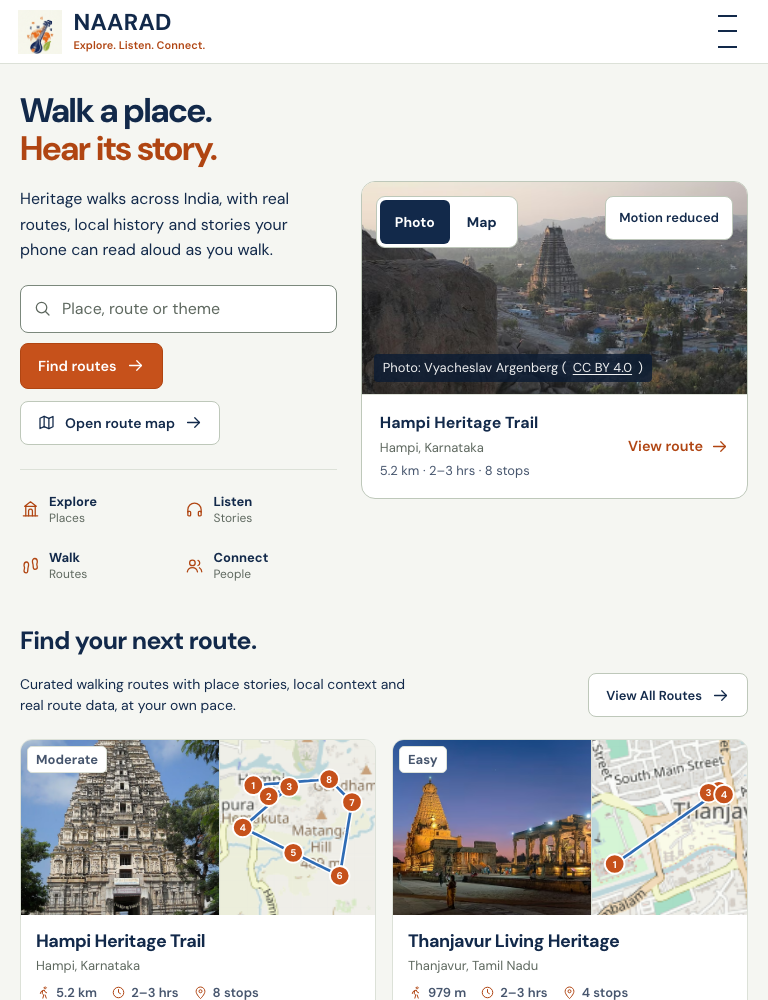
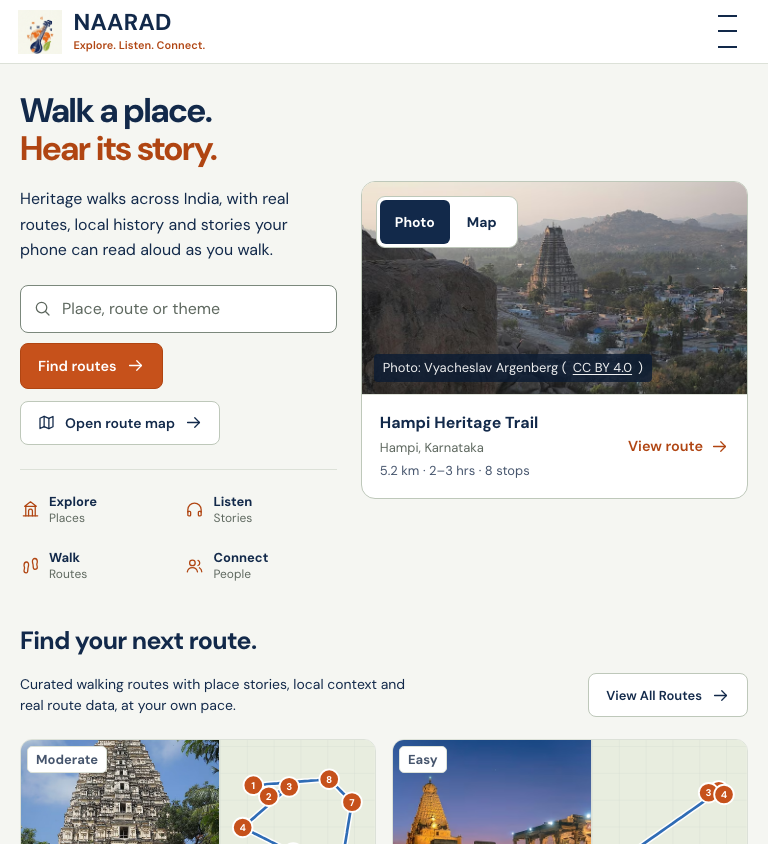
Remove hero Pause motion button as requested

diff --git a/e2e/site.spec.js b/e2e/site.spec.js
@@ -2538,7 +2538,7 @@ test('map-first reduced motion keeps native scrolling and visible content', asyn
   expect(await page.locator('html').getAttribute('class') || '').not.toContain('lenis');
 });
 
-test('hero carousel keeps the original photo, map and motion controls in one frame', async ({ page }) => {
+test('hero carousel keeps the original photo and map without a pause button', async ({ page }) => {
   await page.goto('/');
   const carousel = page.locator('[data-hero-carousel]');
   await expect(carousel).toHaveAttribute('data-hero-mode', 'photo');
@@ -2549,12 +2549,11 @@ test('hero carousel keeps the original photo, map and motion controls in one fra
   await expect(carousel.locator('[data-hero-slide="photo"]')).toBeHidden();
   await expect(carousel.locator('.route-preview')).toBeVisible();
   await carousel.getByRole('button', { name: 'Photo', exact: true }).click();
-  await carousel.getByRole('button', { name: 'Pause motion', exact: true }).click();
-  await expect(carousel).toHaveAttribute('data-hero-motion', 'paused');
-  await expect(carousel.getByRole('button', { name: 'Resume motion', exact: true })).toBeVisible();
+  await expect(carousel.locator('[data-hero-motion]')).toHaveCount(0);
+  await expect(carousel).toHaveAttribute('data-hero-motion', 'running');
 });
 
-test('hero close-up pauses and reduced motion tears down enhancements', async ({ page }) => {
+test('hero close-up stops on Map and reduced motion tears down enhancements', async ({ page }) => {
   await page.goto('/');
   const carousel = page.locator('[data-hero-carousel]');
   const image = carousel.locator('.home-hero-photo img');
@@ -2563,14 +2562,14 @@ test('hero close-up pauses and reduced motion tears down enhancements', async ({
     const transform = await image.evaluate((node) => getComputedStyle(node).transform);
     return transform === 'none' ? 1 : Number(transform.match(/matrix\(([^,]+)/)?.[1] || 1);
   }).toBeGreaterThan(1);
-  await carousel.getByRole('button', { name: 'Pause motion', exact: true }).click();
+  await carousel.getByRole('button', { name: 'Map', exact: true }).click();
   const paused = await image.evaluate((node) => getComputedStyle(node).transform);
   await page.waitForTimeout(180);
   expect(await image.evaluate((node) => getComputedStyle(node).transform)).toBe(paused);
   await page.emulateMedia({ reducedMotion: 'reduce' });
   await expect(page.locator('html')).not.toHaveClass(/lenis/);
   await expect(image).toHaveCSS('transform', 'none');
-  await expect(carousel.getByRole('button', { name: 'Motion reduced', exact: true })).toBeDisabled();
+  await expect(carousel.locator('[data-hero-motion]')).toHaveCount(0);
   await carousel.getByRole('button', { name: 'Map', exact: true }).click();
   await expect(carousel.locator('[data-hero-slide="map"]')).toBeVisible();
 });

diff --git a/app/hero-carousel.js b/app/hero-carousel.js
@@ -4,15 +4,13 @@ export function mountHeroCarousel(root) {
   if (!carousel) return { destroy() {} };
   const slides = [...carousel.querySelectorAll('[data-hero-slide]')];
   const choices = [...carousel.querySelectorAll('[data-hero-select]')];
-  const motion = carousel.querySelector('[data-hero-motion]');
   const reduced = matchMedia('(prefers-reduced-motion: reduce)');
   let mode = 'photo';
-  let paused = false;
   let gesture = null;
   let suppressClickUntil = 0;
   const update = () => {
     carousel.dataset.heroMode = mode;
-    carousel.dataset.heroMotion = paused || reduced.matches ? 'paused' : 'running';
+    carousel.dataset.heroMotion = reduced.matches ? 'paused' : 'running';
     for (const slide of slides) {
       const selected = slide.dataset.heroSlide === mode;
       slide.hidden = !selected;
@@ -24,13 +22,6 @@ export function mountHeroCarousel(root) {
       button.setAttribute('aria-pressed', String(button.dataset.heroSelect === mode));
       button.setAttribute('aria-controls', `hero-slide-${button.dataset.heroSelect}`);
     }
-    if (motion) {
-      motion.hidden = mode !== 'photo';
-      motion.disabled = reduced.matches;
-      const label = reduced.matches ? 'Motion reduced' : paused ? 'Resume motion' : 'Pause motion';
-      motion.textContent = label;
-      motion.setAttribute('aria-label', label);
-    }
     carousel.dispatchEvent(new CustomEvent('hero:motion', { bubbles: true }));
   };
   const click = (event) => {
@@ -39,7 +30,6 @@ export function mountHeroCarousel(root) {
     }
     const button = event.target.closest('[data-hero-select]');
     if (button) { mode = button.dataset.heroSelect === 'map' ? 'map' : 'photo'; update(); }
-    if (event.target.closest('[data-hero-motion]') && !reduced.matches) { paused = !paused; update(); }
   };
   const key = (event) => {
     if (!event.target.closest('[data-hero-select]') || !['ArrowLeft', 'ArrowRight', 'Home', 'End'].includes(event.key)) return;

diff --git a/app/map-first.css b/app/map-first.css
@@ -81,8 +81,6 @@ a { text-underline-offset: 3px; }
 .hero-carousel-select { display: flex; padding: 3px; border: 1px solid var(--line-strong); border-radius: 9px; background: var(--paper-bright); pointer-events: auto; }
 .hero-carousel-select button { min-width: 64px; min-height: 44px; padding: 8px 15px; border-radius: 6px; font-size: 14px; font-weight: 700; }
 .hero-carousel-select button[aria-pressed='true'] { background: var(--ink); color: var(--white); }
-.hero-carousel-motion { min-height: 44px; padding: 9px 13px; border: 1px solid var(--line-strong); border-radius: 8px; background: var(--paper-bright); font-size: 13px; font-weight: 600; pointer-events: auto; }
-.hero-carousel-motion[hidden] { display: none; }
 .hero-carousel-controls button:disabled { cursor: default; }
 .home-map-preview { display: block; position: relative; width: 100%; height: 100%; background: var(--preview-ground); }
 .home-map-preview > .route-preview { width: 100%; height: 100%; }
@@ -206,7 +204,6 @@ a { text-underline-offset: 3px; }
   .home-map-open { bottom: 12px; left: 12px; min-height: 44px; padding: 8px 10px; font-size: 13px; }
   .hero-carousel-controls { top: 10px; left: 10px; right: 10px; gap: 8px; }
   .hero-carousel-select button { min-width: 58px; padding-inline: 11px; }
-  .hero-carousel-motion { padding-inline: 10px; }
   .home-map-route { padding: 14px; gap: 12px; }
   .home-preview-route { font-size: 13px; }
   .home-featured { padding-top: 30px; }

diff --git a/app/enhancements/index.jsx b/app/enhancements/index.jsx
@@ -14,7 +14,7 @@ export function mount(page, { desktop = false } = {}) {
   let lenis = null;
   let tick = null;
   let style = null;
-  // The native carousel owns slide and pause state. GSAP owns only the
+  // The native carousel owns slide and motion-preference state. GSAP owns only the
   // photograph's gradual close-up, never its frame, credit or controls.
   const heroCarousel = page.matches('.home') ? page.querySelector('[data-hero-carousel]') : null;
   const heroPhoto = heroCarousel?.querySelector('.home-hero-photo img');

diff --git a/app/views/home.js b/app/views/home.js
@@ -109,7 +109,6 @@ function hero(featured) {
             <button type="button" data-hero-select="photo" aria-pressed="true" disabled>Photo</button>
             <button type="button" data-hero-select="map" aria-pressed="false" disabled>Map</button>
           </div>
-          <button class="hero-carousel-motion" type="button" data-hero-motion disabled>Pause motion</button>
         </div>
       </div>
       ${first ? `<div class="home-map-route">

diff --git a/index.html b/index.html
@@ -190,7 +190,6 @@
             <button type="button" data-hero-select="photo" aria-pressed="true" disabled="">Photo</button>
             <button type="button" data-hero-select="map" aria-pressed="false" disabled="">Map</button>
           </div>
-          <button class="hero-carousel-motion" type="button" data-hero-motion="" disabled="">Pause motion</button>
         </div>
       </div>
       <div class="home-map-route">

diff --git a/DESIGN.md b/DESIGN.md
@@ -64,7 +64,7 @@ components:
 
 Naarad's public surfaces pair a clear route-finding workspace with the warmth of an India travel guide. Light paper-like neutral grounds and navy text keep route facts legible; orange marks actions and sage quietly supports map-related detail. Real licensed place imagery gives routes a sense of place without taking over the task of comparing walks.
 
-The interface is compact and practical, with visible control boundaries, straightforward dividers and a restrained radius vocabulary. The homepage brings a real Hampi photograph and an explicitly selected route-map preview together in one frame; the map catalogue gives results and map equal working importance. The homepage photograph uses a slow, pauseable close-up; reduced-motion behavior is respected. Long-form story surfaces retain their distinct reading typography.
+The interface is compact and practical, with visible control boundaries, straightforward dividers and a restrained radius vocabulary. The homepage brings a real Hampi photograph and an explicitly selected route-map preview together in one frame; the map catalogue gives results and map equal working importance. The homepage photograph uses a slow close-up that stops on Map or reduced motion; reduced-motion behavior is respected. Long-form story surfaces retain their distinct reading typography.
 
 **Key Characteristics:**
 - Map and route facts lead the discovery experience.
@@ -152,7 +152,7 @@ The interface favors gently rounded practical controls: 8px fields and buttons, 
 The white-surface header is compact and uses dark, medium-weight sans links. Search is a bordered 44px control on desktop; navigation retains its responsive menu behavior on narrower layouts.
 
 ### Homepage Photo and Map Preview
-The hero media is one clipped frame with a 20:11 stage. The real place photograph is initially shown; visitors can explicitly select Photo or Map, pause the slow photo motion, and use touch or keyboard controls. The controls are light, bordered surfaces over the media. Keep the map preview and original photo within this same component.
+The hero media is one clipped frame with a 20:11 stage. The real place photograph is initially shown; visitors can explicitly select Photo or Map, use touch or keyboard controls, and select Map to stop photo motion. The controls are light, bordered surfaces over the media. Keep the map preview and original photo within this same component.
 
 ## Do's and Don'ts
 
@@ -161,7 +161,7 @@ The hero media is one clipped frame with a 20:11 stage. The real place photograp
 ### Do:
 - **Do** keep search and route facts close to the map they help visitors interpret.
 - **Do** use the compact control scale and maintain 44px minimum control heights.
-- **Do** keep map interaction native and preserve the explicit, pauseable photo/map selection.
+- **Do** keep map interaction native and preserve the explicit photo/map selection.
 - **Do** honor reduced-motion preferences.
 - **Do** use credited, existing place imagery and honest route facts.
 

diff --git a/docs/superpowers/plans/2026-11-04-map-first-redesign.md b/docs/superpowers/plans/2026-11-04-map-first-redesign.md
@@ -48,4 +48,10 @@ Repeated navigation/late async loads must not leak roots, triggers or tickers. M
 
 Draft PR: https://github.com/Naarad-Labs/NAARAD.IO/pull/63. Implementation commit: `cc2692f`. A post-commit rebuild wrote zero files; all 73 generated outputs matched. Live deployment remains unchanged.
 
-The final finish reviewer cleared the stop-label placement fix. The formal QUALITY BAR/seed limitation above remains a historical process limitation rather than an asserted approval. The intermittent mobile overview anchor miss remains open for review: one focused repetition failed, while two complete final browser runs and a further 10 instrumented test repetitions plus 15 sequential diagnostic attempts passed. Steady-state header/tabs/margin are correct (64px header, tabs ending at 118px, 134px scroll margin); no cause was proven, so no speculative source patch or weaker assertion was accepted. The PR remains draft and is not a release-readiness claim.
+The final finish reviewer cleared the stop-label placement fix. The formal QUALITY BAR/seed limitation above remains a historical process limitation rather than an asserted approval. The intermittent mobile overview anchor miss remains open for review: one focused repetition failed, while two complete final browser runs passed. Later diagnostic stress batches were accidentally run from a duplicate worktree and are excluded from this branch’s verification evidence. Steady-state header/tabs/margin are correct (64px header, tabs ending at 118px, 134px scroll margin); no cause was proven, so no speculative source patch or weaker assertion was accepted. The PR remains draft and is not a release-readiness claim.
+
+## User amendment: remove Pause motion button (2026-11-05)
+
+Removed the visible motion button and its unused controller/CSS branches. Photo/Map selection and reduced-motion preference still govern photo animation. Updated regression checks assert the button is absent and Map stops the close-up. This supersedes earlier pause-button descriptions in the approved build history.
+
+The button-removal regression first failed with the old button present, then all three carousel browser cases and all three motion lifecycle tests passed after removal. Build/cache/diff checks passed; preview captures were refreshed.

diff --git a/.impeccable/surfaces/map-first.md b/.impeccable/surfaces/map-first.md
@@ -8,6 +8,6 @@ Build path: code-led; user-selected map-first direction, no image comp asserted 
 THESIS: A walker finds and compares real routes immediately; the map and honest facts lead the page.
 OWN-WORLD: Light neutral ground, navy ink, orange actions and quiet sage mapping; compact sans interface, clear dividers, practical controls and real licensed place imagery.
 STORY: Search or filter a place, inspect the map/list, open a route and walk/listen with existing controls.
-FIRST VIEWPORT: Compact navigation, short introduction/search, desktop results column beside a dominant map; mobile Map/List controls. Homepage opens with the original Hampi photograph and its slow close-up, with a manually selected map preview in the same frame. Photo/Map, pause, swipe and keyboard controls preserve this approved amendment; motion respects reduced-motion preferences.
+FIRST VIEWPORT: Compact navigation, short introduction/search, desktop results column beside a dominant map; mobile Map/List controls. Homepage opens with the original Hampi photograph and its slow close-up, with a manually selected map preview in the same frame. Photo/Map, swipe and keyboard controls preserve this approved amendment; motion respects reduced-motion preferences.
 FORM: User-selected compact outdoor map workspace. Seed: none (direction explicitly chosen in chat).
 FINISH: unreviewed and undocumented is unfinished; this build ends with the finish review, the verdict, DESIGN.md, and every shipping raster carrying its provenance
